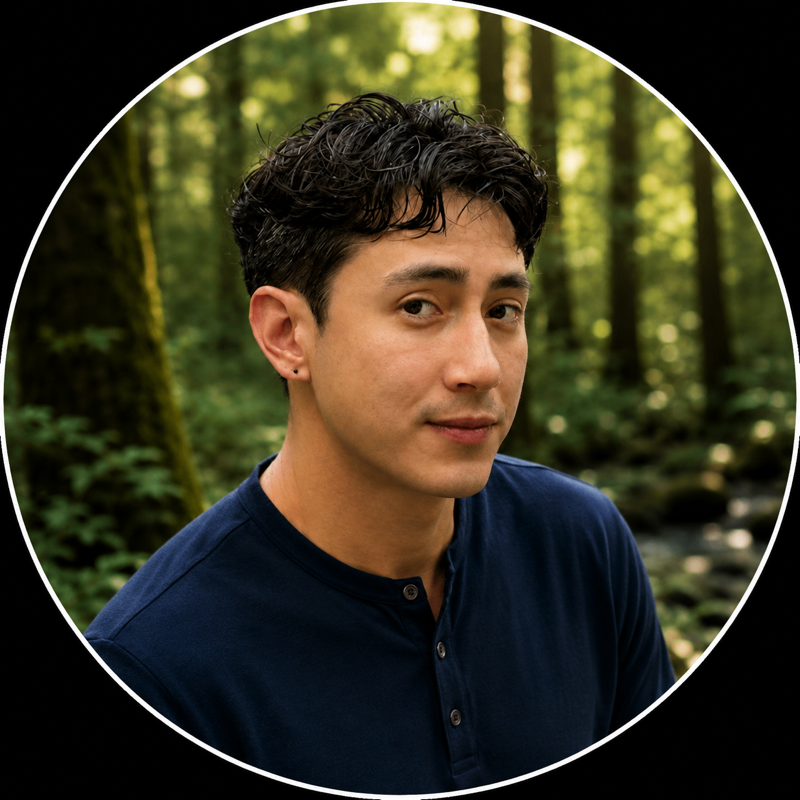
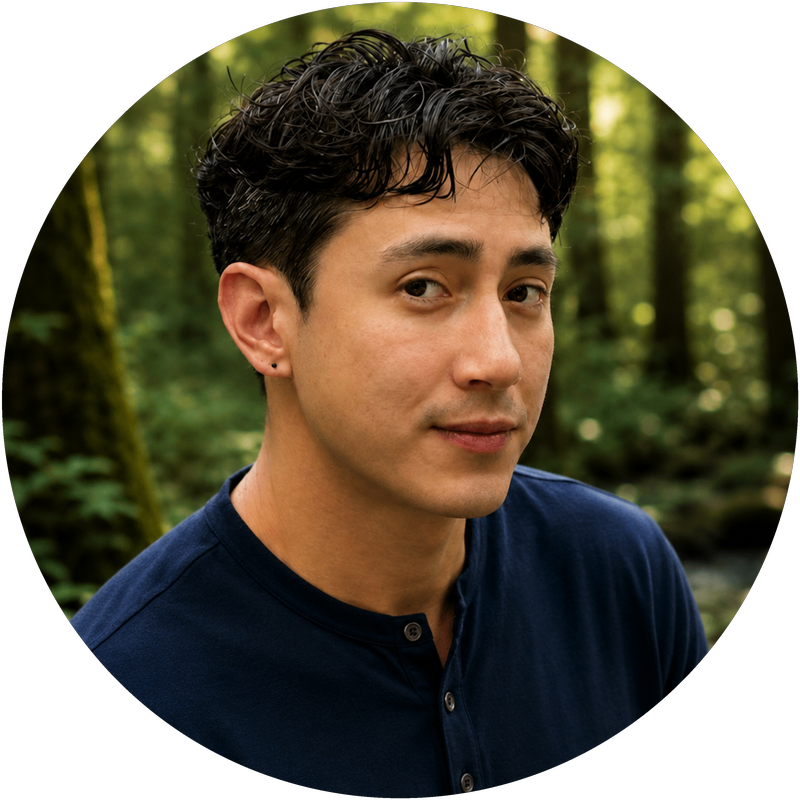
Refine profile portrait treatment

diff --git a/components/auto-slider-banner.tsx b/components/auto-slider-banner.tsx
@@ -4,6 +4,7 @@ import { useEffect, useRef, useState } from "react"
 import Link from "next/link"
 import { ArrowRight, Download, Mail, Terminal } from "lucide-react"
 
+import { ProfilePortrait } from "@/components/profile-portrait"
 import { ProofSignalRail } from "@/components/proof-signal-rail"
 import { useSplashComplete } from "@/components/splash-provider"
 import { Button } from "@/components/ui/button"
@@ -315,12 +316,7 @@ export function AutoSliderBanner() {
 				<div className="grid gap-10 lg:grid-cols-[1fr_0.78fr] lg:items-center">
 					<div className="max-w-3xl">
 						<div className="mb-6 lg:hidden">
-							<img
-								src="/JohnCarrollProfilePic.png"
-								alt="John Carroll"
-								data-hero-portrait
-								className="h-24 w-24 rounded-full border border-cyan-200/25 object-cover shadow-[0_18px_50px_rgba(0,0,0,0.42)]"
-							/>
+							<ProfilePortrait size="small" data-hero-portrait />
 						</div>
 						<h1 className="mb-4 max-w-4xl text-[2.15rem] font-semibold leading-none text-white sm:text-5xl md:text-[3.8rem] xl:text-[4.25rem]">
 							John Carroll
@@ -372,16 +368,7 @@ export function AutoSliderBanner() {
 					</div>
 
 					<div className="relative hidden min-h-[36.5rem] lg:block xl:min-h-[37.5rem]">
-						<div data-hero-portrait-shell className="absolute right-2 top-0 h-72 w-72">
-							<div className="relative h-full w-full overflow-hidden rounded-full border border-cyan-200/25 bg-slate-950/35 shadow-[0_32px_110px_rgba(0,0,0,0.55)]">
-								<img
-									src="/JohnCarrollProfilePic.png"
-									alt="John Carroll"
-									data-hero-portrait
-									className="h-full w-full object-cover"
-								/>
-							</div>
-						</div>
+						<ProfilePortrait data-hero-portrait data-hero-portrait-shell size="fill" className="absolute right-2 top-0 h-72 w-72" />
 						<div ref={terminalRef} data-hero-terminal className="absolute bottom-0 left-0 right-5 border border-cyan-200/20 bg-slate-950/58 shadow-[0_28px_100px_rgba(0,0,0,0.5)] backdrop-blur-md">
 							<div className="flex items-center gap-2 border-b border-white/10 px-4 py-3 font-mono text-xs text-slate-400">
 								<Terminal className="h-4 w-4 text-cyan-300" />

diff --git a/components/portfolio-v2-sections.tsx b/components/portfolio-v2-sections.tsx
@@ -13,6 +13,7 @@ import { Button } from "@/components/ui/button"
 import { BrandProofMark } from "@/components/brand-proof-mark"
 import ContactForm from "@/components/contact-form"
 import { CustomerFootprintCarousel } from "@/components/customer-footprint-carousel"
+import { ProfilePortrait } from "@/components/profile-portrait"
 import { ProjectGallery } from "@/components/project-gallery"
 import { ProofSignalRail } from "@/components/proof-signal-rail"
 import {
@@ -99,11 +100,7 @@ export function ProfileDossier() {
       <div className="mx-auto grid max-w-7xl gap-10 md:grid-cols-[0.78fr_1.22fr] md:items-start xl:grid-cols-[0.82fr_1.42fr]">
         <aside className="border border-cyan-200/15 bg-[#0b111d]/82 p-6 shadow-[0_24px_80px_rgba(0,0,0,0.35)] backdrop-blur md:sticky md:top-24 md:max-h-[calc(100vh-7rem)] md:overflow-y-auto">
           <div className="flex flex-col gap-5 sm:flex-row sm:items-center md:flex-col md:items-start xl:flex-row xl:items-center">
-            <img
-              src="/JohnCarrollProfilePic.png"
-              alt="John Carroll"
-              className="h-24 w-24 rounded-full border border-cyan-200/20 object-cover xl:h-28 xl:w-28"
-            />
+            <ProfilePortrait />
             <div>
               <h2 className="text-2xl font-semibold text-white xl:text-3xl">John Carroll</h2>
               <p className="mt-2 font-mono text-sm text-cyan-300">

diff --git a/components/profile-portrait.tsx b/components/profile-portrait.tsx
@@ -1,0 +1,44 @@
+import type React from "react"
+
+import { cn } from "@/lib/utils"
+
+const portraitSizes = {
+  fill: "h-full w-full",
+  profile: "h-24 w-24 xl:h-28 xl:w-28",
+  small: "h-24 w-24",
+}
+
+type ProfilePortraitProps = React.HTMLAttributes<HTMLDivElement> & {
+  imageClassName?: string
+  size?: keyof typeof portraitSizes
+}
+
+export function ProfilePortrait({
+  className,
+  imageClassName,
+  size = "profile",
+  ...props
+}: ProfilePortraitProps) {
+  return (
+    <div
+      className={cn(
+        "relative shrink-0 rounded-full bg-[linear-gradient(135deg,rgba(103,232,249,0.9),rgba(34,211,238,0.2)_42%,rgba(148,163,184,0.24))] p-px shadow-[0_22px_70px_rgba(0,0,0,0.42),0_0_34px_rgba(34,211,238,0.08)]",
+        portraitSizes[size],
+        className,
+      )}
+      {...props}
+    >
+      <span
+        aria-hidden="true"
+        className="pointer-events-none absolute -inset-2 rounded-full border border-cyan-200/10"
+      />
+      <div className="relative h-full w-full overflow-hidden rounded-full bg-slate-950/80 p-[3px] ring-1 ring-cyan-100/20">
+        <img
+          src="/JohnCarrollProfilePic.png"
+          alt="John Carroll"
+          className={cn("h-full w-full rounded-full object-cover", imageClassName)}
+        />
+      </div>
+    </div>
+  )
+}

diff --git a/components/profile-header.tsx b/components/profile-header.tsx
@@ -1,13 +1,10 @@
-import { Avatar, AvatarImage } from "@/components/ui/avatar"
+import { ProfilePortrait } from "@/components/profile-portrait"
 import { RotatingTitle } from "./rotating-title"
 
 export function ProfileHeader({ glitchActive }: { glitchActive: boolean }) {
   return (
     <div className="flex flex-col items-center justify-center w-full gap-2 md:gap-6">
-      {/* Avatar */}
-      <Avatar className="w-32 h-32 shadow-xl border-4 border-white dark:border-gray-800 flex-shrink-0" >
-        <AvatarImage src="/JohnCarrollProfilePic.png" alt="John Carroll" />
-      </Avatar>
+      <ProfilePortrait className="h-32 w-32" />
       {/* Name and Rotating Title */}
       <h1 className="text-4xl md:text-6xl font-extrabold tracking-tight mb-2 text-white text-center w-full flex flex-col items-center justify-center">
         <span className="block mb-2 text-3xl md:text-5xl font-bold text-white">John Carroll</span>
